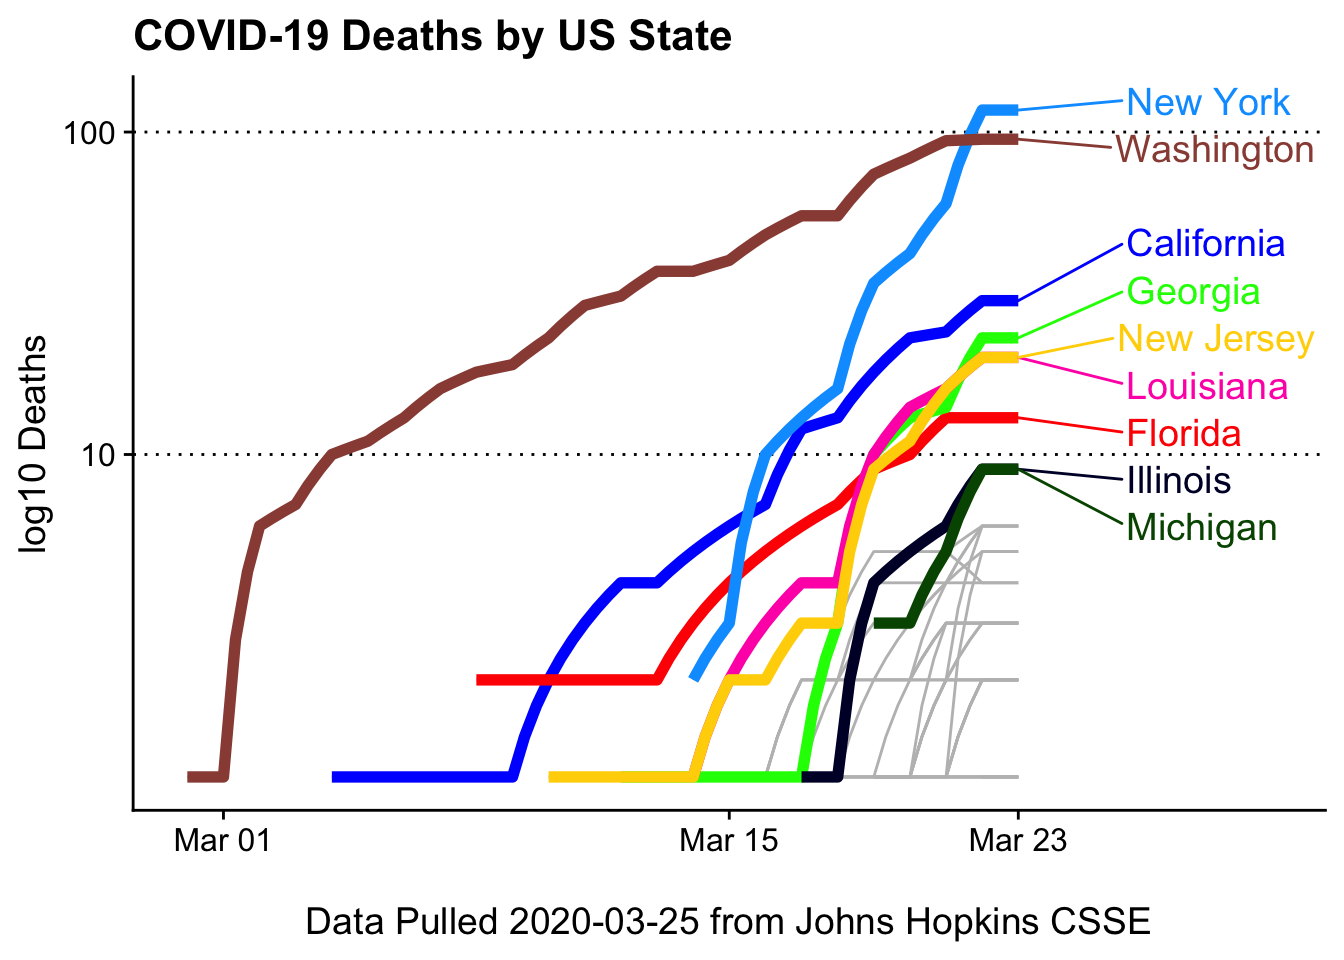
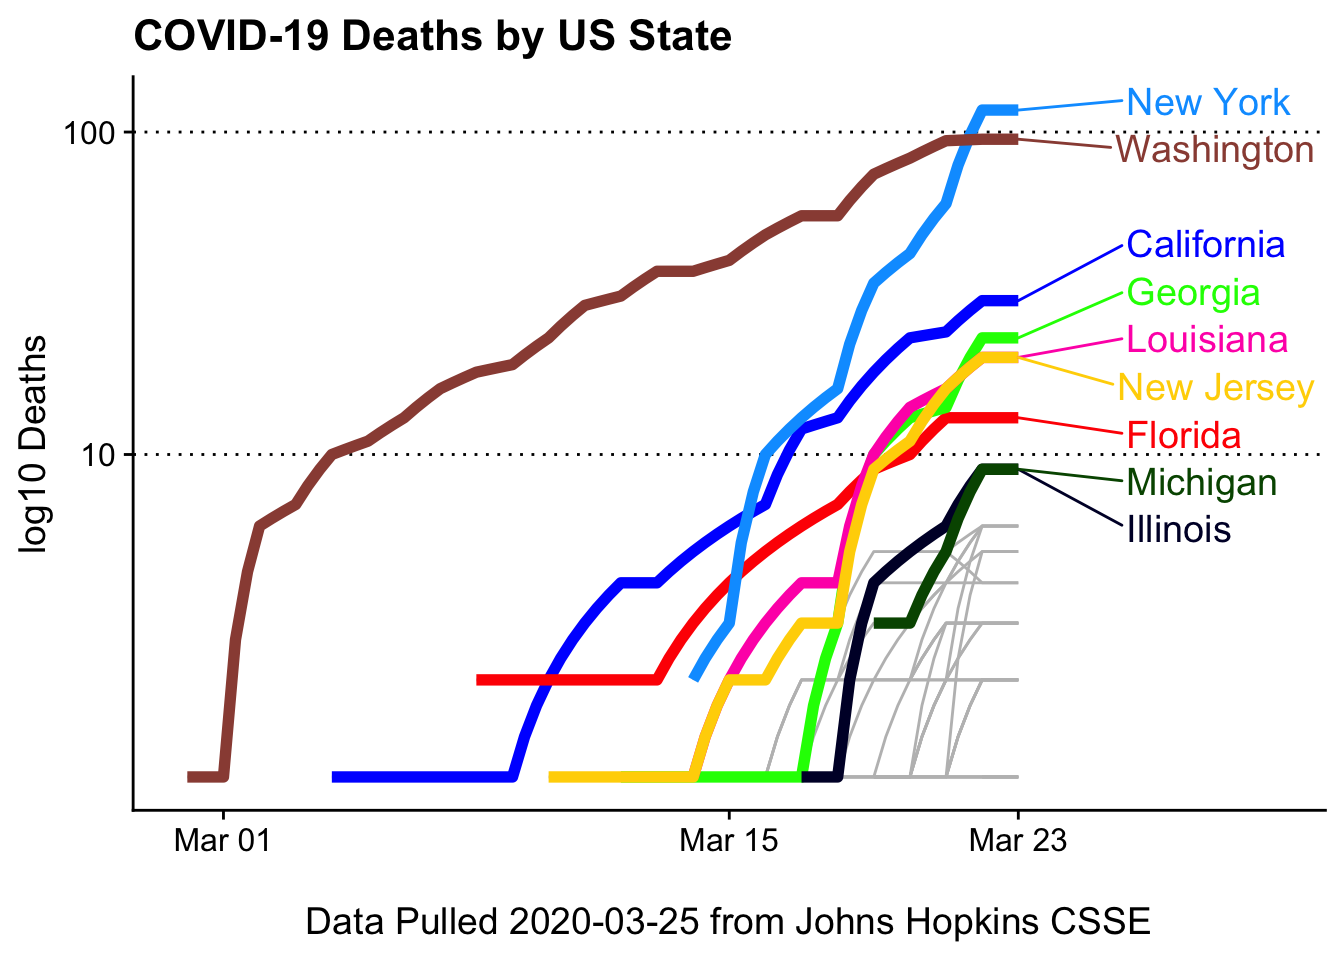
update gif

Changed region(s): [[0.75, 0.25, 1.0, 0.5625]]

diff --git a/post/are-you-in-genomics-stop-using-roc-use-pr/index.html b/post/are-you-in-genomics-stop-using-roc-use-pr/index.html
@@ -673,9 +673,9 @@ pr</code></pre>
         
         <li><a href="/post/let-s-plot-3-part-2/">Let’s Plot 3: Base pair resolution NGS (exome) coverage plots - Part 2</a></li>
         
-        <li><a href="/post/split-vcf-into-n-pieces-by-coordinate/">Split VCF into n pieces by coordinate</a></li>
-        
         <li><a href="/post/let-s-plot-3-part-i/">Let’s Plot 3: Base pair resolution NGS coverage plots (Part I)</a></li>
+        
+        <li><a href="/post/split-vcf-into-n-pieces-by-coordinate/">Split VCF into n pieces by coordinate</a></li>
         
         <li><a href="/post/traffic-monitoring-intro/">Something Different: Automated Neighborhood Traffic Monitoring</a></li>
         

diff --git a/post/traffic-monitoring-intro/index.html b/post/traffic-monitoring-intro/index.html
@@ -462,9 +462,9 @@ each piece of software I wanted by hand when I want to set up a new one.</p>
         
         <li><a href="/post/let-s-plot-3-part-2/">Let’s Plot 3: Base pair resolution NGS (exome) coverage plots - Part 2</a></li>
         
-        <li><a href="/post/let-s-plot-3-part-i/">Let’s Plot 3: Base pair resolution NGS coverage plots (Part I)</a></li>
-        
         <li><a href="/post/split-vcf-into-n-pieces-by-coordinate/">Split VCF into n pieces by coordinate</a></li>
+        
+        <li><a href="/post/let-s-plot-3-part-i/">Let’s Plot 3: Base pair resolution NGS coverage plots (Part I)</a></li>
         
       </ul>
     </div>

diff --git a/post/gi2019-day03-afternoon/index.html b/post/gi2019-day03-afternoon/index.html
@@ -598,9 +598,9 @@ a: looking at other kmer n - balance between closeness of variants and kmer n</p
         
         <li><a href="/post/gi2019-day03-morning/">#GI2019 2019 11 08 Morning Session</a></li>
         
-        <li><a href="/post/gi2019-day02-night/">#GI2019 2019 11 07 Night Session</a></li>
-        
         <li><a href="/post/gi2019-day02/">#GI2019 2019 11 07</a></li>
+        
+        <li><a href="/post/gi2019-day02-night/">#GI2019 2019 11 07 Night Session</a></li>
         
         <li><a href="/post/gi2019-day01/">#GI2019 2019 11 06</a></li>
         

diff --git a/post/lets-plot-scrna-dotplots/index.html b/post/lets-plot-scrna-dotplots/index.html
@@ -804,7 +804,7 @@ plot_grid(fancy_tree_plot, NULL, dotplot, nrow = 1, rel_widths = c(0.5,-0.1, 2),
         
         <li><a href="/post/parallel-seurat-findmarker/">Seurat FindMarker with Cluster N vs M</a></li>
         
-        <li><a href="/post/one-developer-portal-optimization/">One Developer Portal: eyeIntegration Web Optimization</a></li>
+        <li><a href="/post/one-developer-portal-genesis/">One Developer Portal: eyeIntegration Genesis</a></li>
         
       </ul>
     </div>

diff --git a/content/post/2020-03-25-Animated-Covid19-Line-Plot.html b/content/post/2020-03-25-Animated-Covid19-Line-Plot.html
@@ -191,6 +191,7 @@ covid19_plotter(us_covid_deaths_clean,
                              xlab = paste0(&#39;\nData Pulled &#39;, Sys.Date(), &#39; from Johns Hopkins CSSE&#39;),
                              title = &#39;COVID-19 Deaths by US State&#39;) + 
   coord_trans(y = &#39;log10&#39;) +
+   scale_y_continuous(breaks = c(10,25, 50,75, 100)) +
   transition_reveal(Date) + 
   view_follow(fixed_y = TRUE, 
               fixed_x = TRUE)

diff --git a/post/lets-plot-covid19-animated/index.html b/post/lets-plot-covid19-animated/index.html
@@ -526,6 +526,7 @@ covid19_plotter(us_covid_deaths_clean,
                              xlab = paste0(&#39;\nData Pulled &#39;, Sys.Date(), &#39; from Johns Hopkins CSSE&#39;),
                              title = &#39;COVID-19 Deaths by US State&#39;) + 
   coord_trans(y = &#39;log10&#39;) +
+   scale_y_continuous(breaks = c(10,25, 50,75, 100)) +
   transition_reveal(Date) + 
   view_follow(fixed_y = TRUE, 
               fixed_x = TRUE)

diff --git a/post/gi2019-day03-morning/index.html b/post/gi2019-day03-morning/index.html
@@ -650,7 +650,7 @@
         
         <li><a href="/post/gi2019-day01/">#GI2019 2019 11 06</a></li>
         
-        <li><a href="/post/one-developer-portal-genesis/">One Developer Portal: eyeIntegration Genesis</a></li>
+        <li><a href="/post/one-developer-portal-optimization/">One Developer Portal: eyeIntegration Web Optimization</a></li>
         
       </ul>
     </div>
